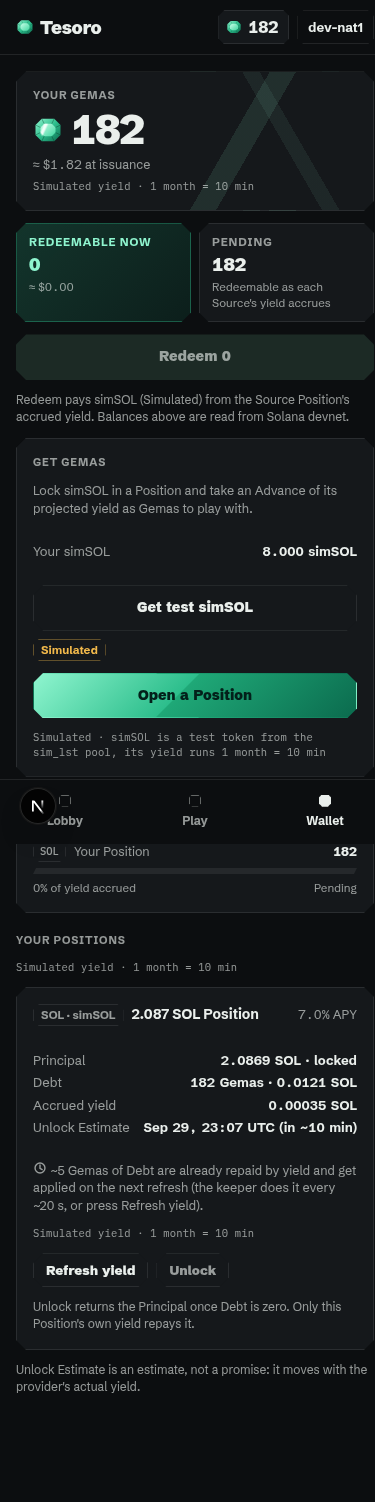
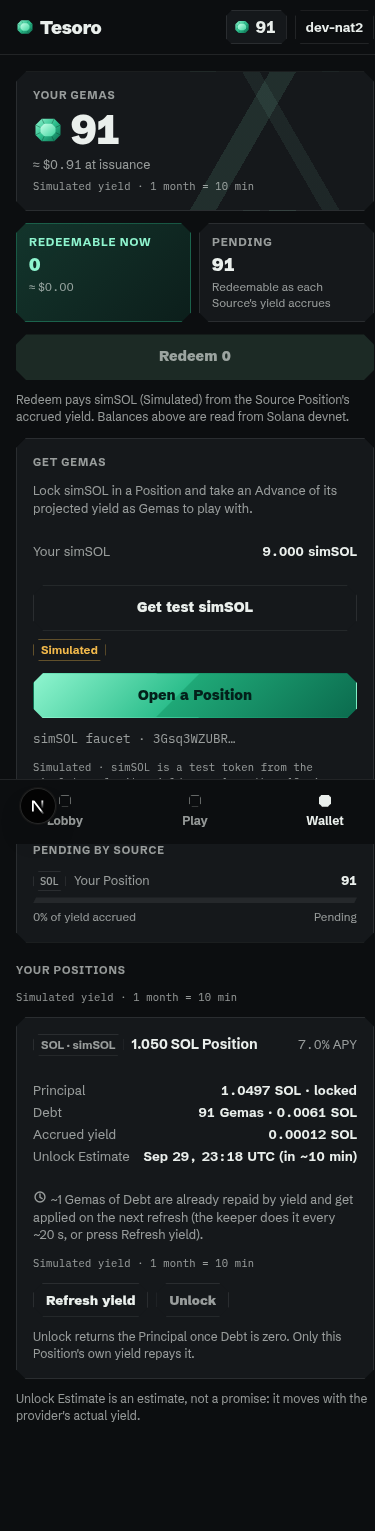
docs: native Position flow evidence, keeper pass, screenshots

diff --git a/docs/deployments.md b/docs/deployments.md
@@ -89,3 +89,18 @@ Backward-compatible upgrade of `AR9c426k5531GhYNSvQAz3YhpBvCc5x22YaKCesTAckh` vi
[1 lines of base64/hex data omitted]
 
 Position `2QxKeDKJfWvGa6uNwXG6533ZpNTazyoUEXj4ALRj2Zb6` (owner wallet = the deployer, nonce 1). One month of Horizon takes about 10.1 min because sim_lst accrues per 30-day month while the Advance projects 1/12 of a year. Helper: `scripts/native-position` (`RPC_URL=https://rpc.magicblock.app/devnet pnpm cli status`).
+
+### Web app native Position flow (2026-09-30, dev wallet `?dev=nat2`, browser at 390 px)
+
+Driven from the Wallet screen (`app/src/app/wallet/NativePositions.tsx`) on `https://rpc.magicblock.app/devnet`. SIMULATED yield (1 month = ~10 min). Screens: `app/docs/screens/wallet-native-*.png`.
+
+| Step | Signature |
+|---|---|
[6 lines of base64/hex data omitted]
+
[1 lines of base64/hex data omitted]
